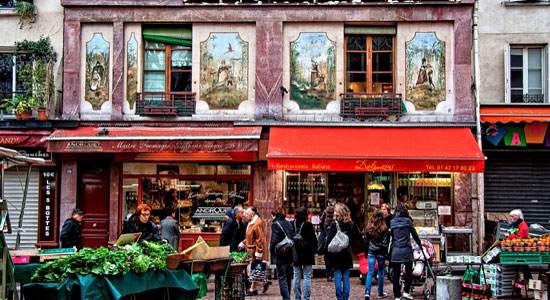
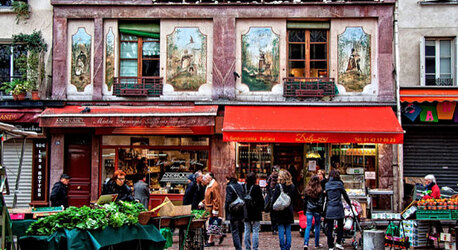
:lipstick: finalisation scss cards

diff --git a/index.html b/index.html
@@ -28,23 +28,19 @@
     <main>
       <section id="cards">
         <article>
-          <img src="img/mouf1.jpg" alt="rue mouffetard" />
+          <img src="img/mouf3.jpg" alt="rue mouffetard" />
 
           <div class="contentcards">
             <div>
-              <p class="Titre">Lorem ipsum dolor sit amet consectetur.</p>
-              <h2 class="card-sub-t">Lorem, ipsum dolor.</h2>
+              <h2 class="Titre">Une rue chargée d'histoire</h2>
+              <p class="card-sub-t">
+                Une rue presque aussi vieille que la capitale qui renferme de
+                nombreux secrets !
+              </p>
             </div>
 
-            <p class="cards-desc">
-              Lorem ipsum dolor sit amet consectetur adipisicing elit. Maiores
-              porro minima doloribus error at quidem non minus alias explicabo.
-              Officia perspiciatis quisquam unde molestias aspernatur. Eligendi,
-              ipsa accusamus. Magni, ipsam!
-            </p>
-
             <div class="button">
-              <a href="#">Learn More</a>
+              <a href="html/histoire.html">En savoir plus</a>
             </div>
           </div>
         </article>
@@ -54,19 +50,15 @@
 
           <div class="contentcards">
             <div>
-              <p class="Titre">Lorem ipsum dolor sit amet consectetur.</p>
-              <h2 class="card-sub-t">Lorem, ipsum dolor.</h2>
+              <h2 class="Titre">Une rue marchande pleine de vie</h2>
+              <p class="card-sub-t">
+                Des restaurants aux échoppes, vous trouverez de tout rue
+                Mouffetard!
+              </p>
             </div>
 
-            <p class="cards-desc">
-              Lorem ipsum dolor sit amet consectetur adipisicing elit. Maiores
-              porro minima doloribus error at quidem non minus alias explicabo.
-              Officia perspiciatis quisquam unde molestias aspernatur. Eligendi,
-              ipsa accusamus. Magni, ipsam!
-            </p>
-
             <div class="button">
-              <a href="#">Learn More</a>
+              <a href="html/boutiques.html">En savoir plus</a>
             </div>
           </div>
         </article>

diff --git a/styles.css b/styles.css
@@ -85,10 +85,13 @@ header {
 #cards article {
   width: 500px;
   margin: 50px;
-  background-color: #fff;
+  border-radius: 50px;
+  background: #2f3035;
+  box-shadow: inset 32px 32px 50px #28292d, inset -32px -32px 50px #36373d;
 }
 #cards article img {
   width: 100%;
+  border-radius: 50px 50px 0 0;
 }
 #cards .card-sub-t {
   font-size: 24px;
@@ -108,38 +111,38 @@ header {
   font-size: 35px;
   line-height: 42px;
   padding: 0 0 24px 0;
-  color: #cecbcb;
+  color: #fff;
   font-weight: 600;
   text-align: center;
 }
-.contentcards .cards-desc {
+.contentcards .card-sub-t {
+  font-size: 18px;
   color: #cecbcb;
-  text-align: justify;
-  font-weight: 300;
-  line-height: 40px;
 }
 
-.titre::after {
+.Titre::after {
   content: "";
   display: block;
   width: 50%;
   height: 2px;
-  background-color: #cecbcb;
+  background-color: #818a91;
   margin: 0 auto;
   margin-top: 24px;
 }
 
 /* BUTTON */
 .button {
-  margin-top: 72px;
+  margin-top: 60px;
+  margin-bottom: 60px;
   transition: transform 0.5s;
 }
 .button a {
   border: 3px solid #cecbcb;
   padding: 8px 45px;
   text-transform: uppercase;
-  color: #2b697a;
+  color: #818a91;
   transition: background-color 0.5s;
+  text-decoration: none;
 }
 
 .button a:hover {

diff --git a/scss/_cards.scss b/scss/_cards.scss
@@ -8,9 +8,12 @@
   article {
     width: 500px;
     margin: 50px;
-    background-color: #fff;
+    border-radius: 50px;
+    background: #2f3035;
+    box-shadow: inset 32px 32px 50px #28292d, inset -32px -32px 50px #36373d;
     img {
       width: 100%;
+      border-radius: 50px 50px 0 0;
     }
   }
   .card-sub-t {
@@ -32,23 +35,21 @@
     font-size: 35px;
     line-height: 42px;
     padding: 0 0 24px 0;
-    color: #cecbcb;
+    color: #fff;
     font-weight: 600;
     text-align: center;
   }
-  .cards-desc {
+  .card-sub-t {
+    font-size: 18px;
     color: #cecbcb;
-    text-align: justify;
-    font-weight: 300;
-    line-height: 40px;
   }
 }
-.titre::after {
+.Titre::after {
   content: "";
   display: block;
   width: 50%;
   height: 2px;
-  background-color: #cecbcb;
+  background-color: #818a91;
   margin: 0 auto;
   margin-top: 24px;
 }
@@ -56,14 +57,16 @@
 /* BUTTON */
 
 .button {
-  margin-top: 72px;
+  margin-top: 60px;
+  margin-bottom: 60px;
   transition: transform 0.5s;
   a {
     border: 3px solid #cecbcb;
     padding: 8px 45px;
     text-transform: uppercase;
-    color: #2b697a;
+    color: #818a91;
     transition: background-color 0.5s;
+    text-decoration: none;
   }
 }
 
